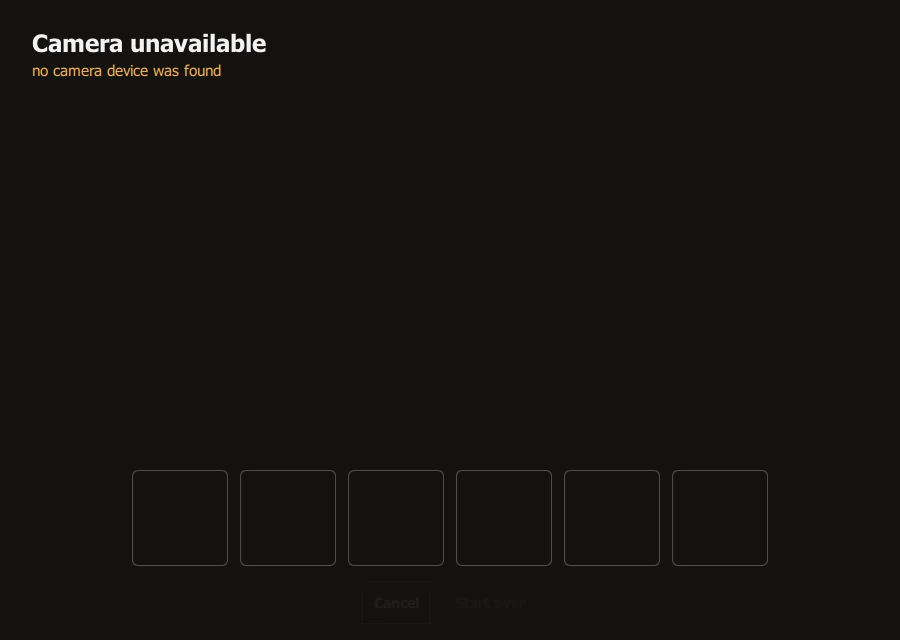
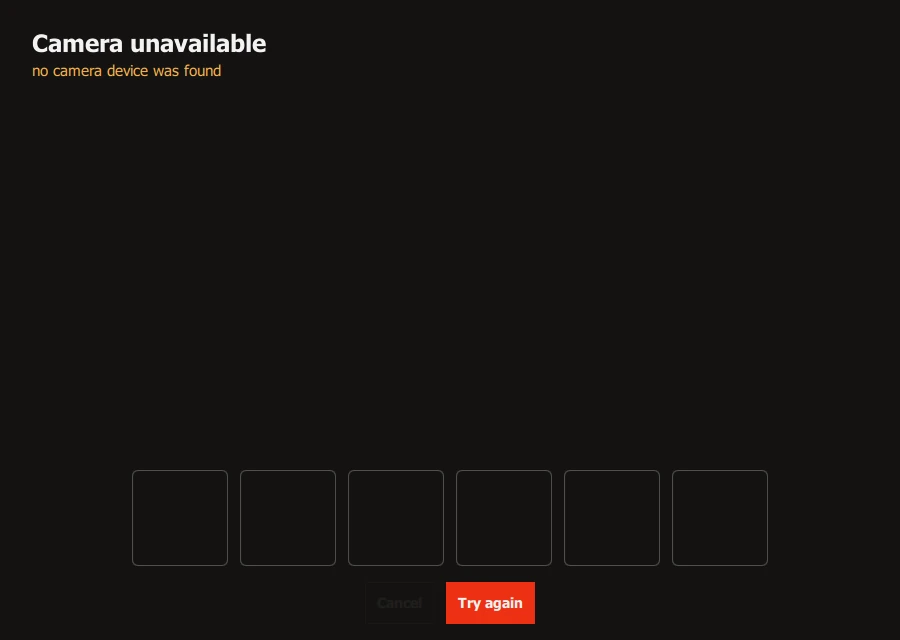
Guide: Try again for a camera that would not start, and its picture
#124 puts a primary Try again button where the dimmed Start over was when the camera could not be started. The scan page's buttons list and its camera section, and the troubleshooting page's first bullet, now say so, and the camera-unavailable picture is retaken from develop 58864ae0. It is the only picture that changes; the rest were not retaken.

Changed region(s): [[0.4667, 0.9062, 0.6222, 1.0]]

diff --git a/docs/guide/scan.md b/docs/guide/scan.md
@@ -79,17 +79,22 @@ The words at the top left are the guide. In the order you will meet them:
 - **Cancel** goes back to the start screen.
 - **Start over** forgets the sides read so far and begins again. It is dimmed
   until the first side is read.
+- **Try again** takes the place of *Start over* when the camera could not be
+  started. It asks for the camera again, so once whatever was in the way is
+  sorted you do not have to go back to the start screen.
 
 ## If the camera will not open
 
 The screen says **Camera unavailable** and gives the reason, for example *no
 camera device was found* or *the camera could not be started*. Another program
-may be using the camera, or the system may be blocking it. See
-[Troubleshooting](troubleshooting.md#the-camera-does-not-open).
+may be using the camera, or the system may be blocking it. Sort that out (see
+[Troubleshooting](troubleshooting.md#the-camera-does-not-open)), then press
+**Try again**.
 
 <figure markdown="span">
   ![The scan screen reading Camera unavailable: no camera device was found.](img/scan-camera-unavailable-wide-light.webp){ loading=lazy }
-  <figcaption>Camera unavailable.</figcaption>
+  <figcaption>Camera unavailable, with <strong>Try again</strong> to ask for
+  the camera once more.</figcaption>
 </figure>
 
 ## Holding a corner to the camera

diff --git a/docs/guide/troubleshooting.md b/docs/guide/troubleshooting.md
@@ -9,8 +9,7 @@ The scan screen says **Camera unavailable**, with a reason such as *no camera
 device was found* or *the camera could not be started*.
 
 - **Is another program using it?** A video call, another app or a browser tab
-  can hold the camera exclusively. Close it and press **Cancel**, then **Scan a
-  cube** again.
+  can hold the camera exclusively. Close it and press **Try again**.
 - **Is the system letting Cubeulator use it?**
     - *Windows:* **Settings > Privacy & security > Camera**. Turn on **Camera
       access** and **Let desktop apps access your camera**.
@@ -27,6 +26,9 @@ device was found* or *the camera could not be started*.
 - **In a browser:** allow the camera when the browser asks, and check the
   address bar's site settings if you said no. The page has to be served over
   `https://`; see [Try it in your browser](../web.md).
+
+Once the cause is sorted, **Try again** on the scan screen asks for the camera
+again; you do not have to go back to the start screen.
 
 ## It will not read a side
 
